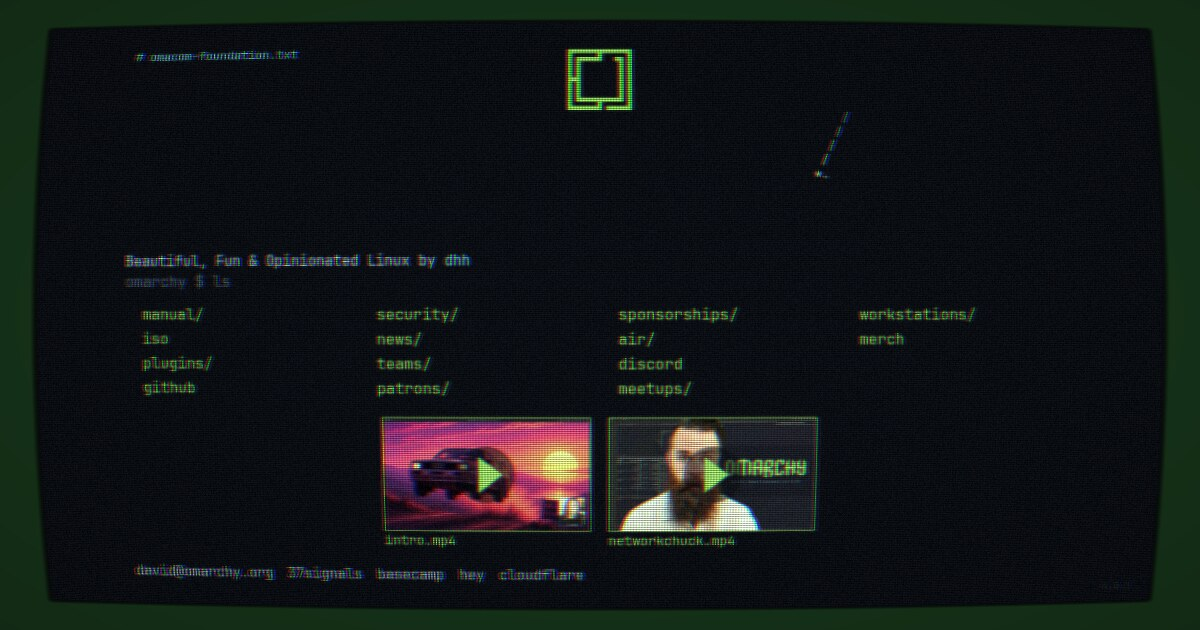
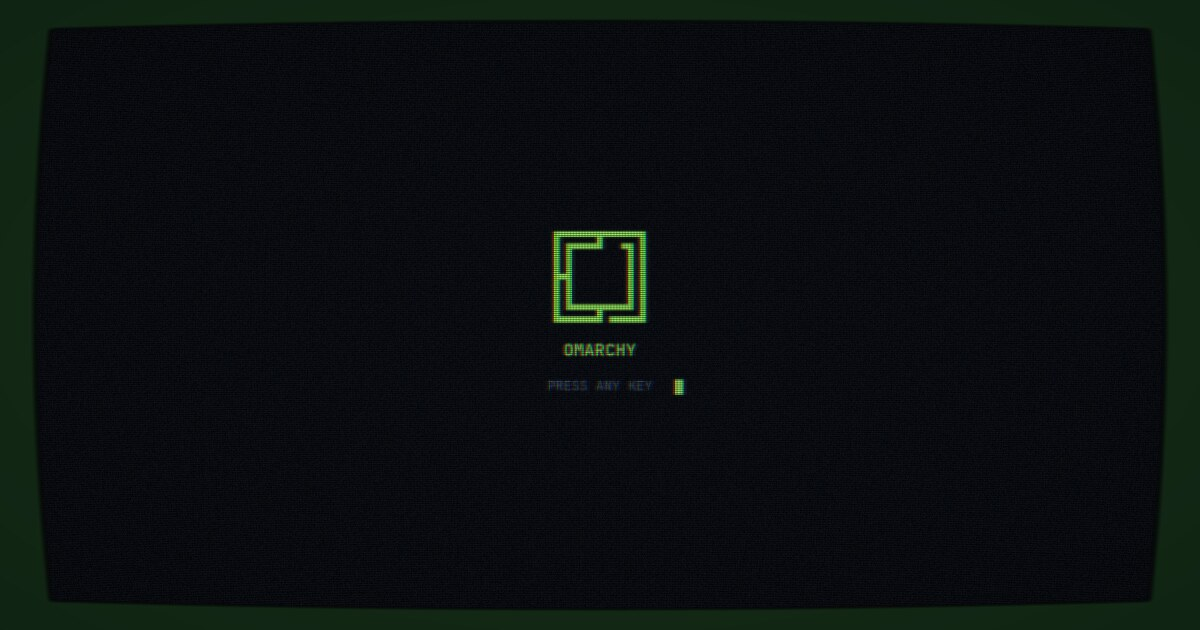
Use the idle PRESS ANY KEY screen for the social card, add README

diff --git a/README.md b/README.md
@@ -1,0 +1,21 @@
+# Omarchy CRT
+
+A CRT boot experiment, live at [crt.omarchy.org](https://crt.omarchy.org).
+An old green-phosphor monitor powers on, runs POST, laser-etches the Omarchy
+logo, and drops you into a terminal with the essentials from
+[omarchy.org](https://omarchy.org). Press any key (or click) to boot.
+
+## Running locally
+
+The etching runs on WASM, which won't load from `file://`, so serve the folder:
+
+```
+python3 -m http.server 8765
+```
+
+Then open http://localhost:8765.
+
+## Deploying
+
+Pushes to `master` deploy to [crt.omarchy.org](https://crt.omarchy.org) via
+GitHub Pages (see `.github/workflows/pages.yml`).
